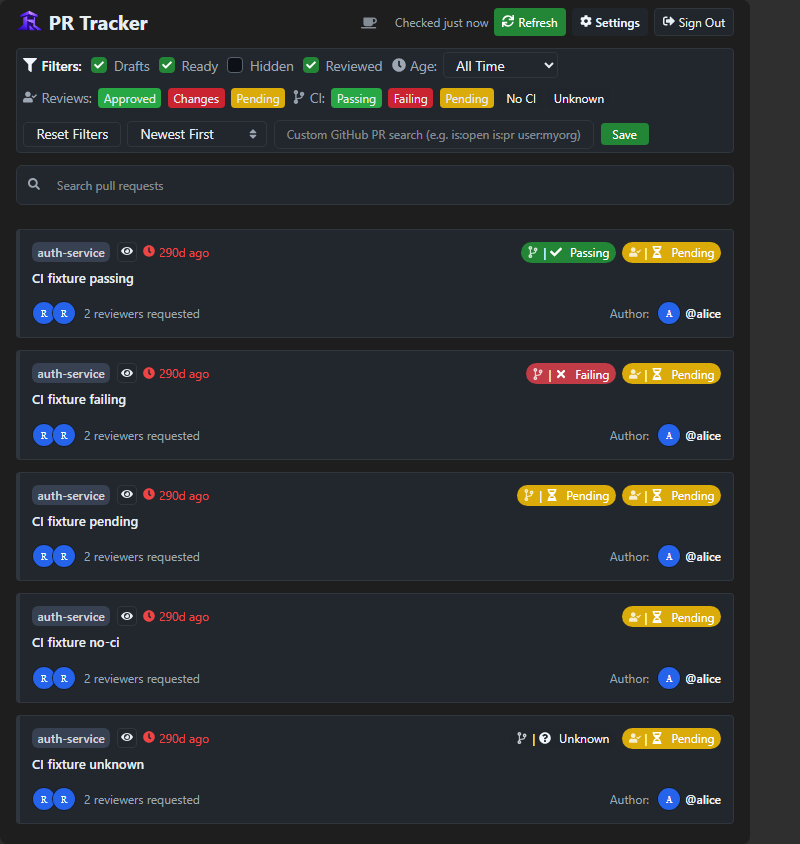
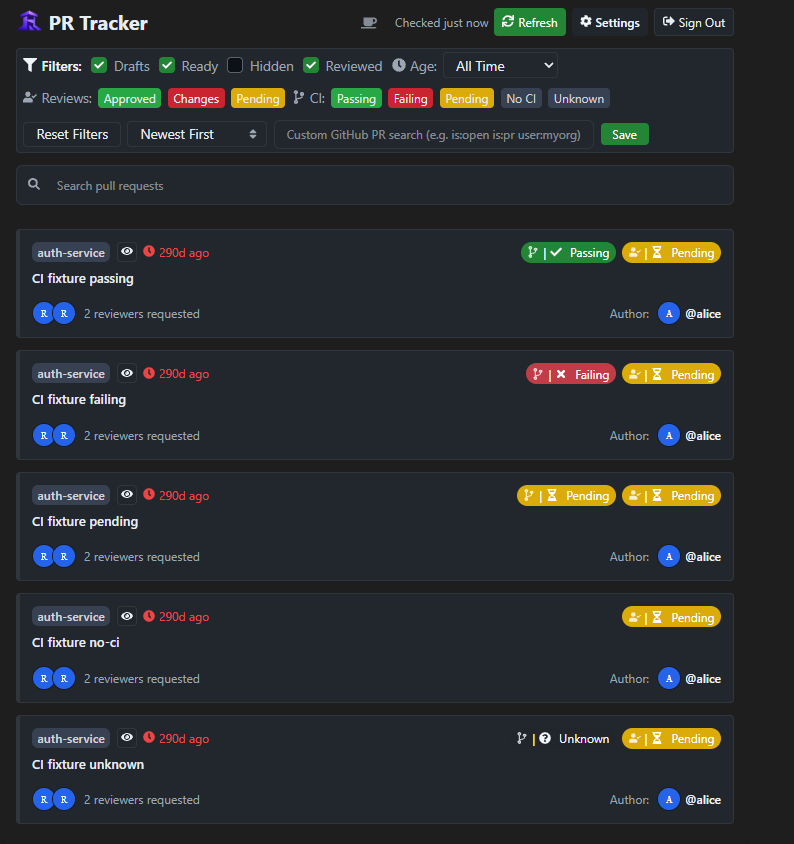
Style neutral CI filter options as subtle grey badges

diff --git a/tests/e2e/ci-status.e2e.test.ts b/tests/e2e/ci-status.e2e.test.ts
@@ -156,6 +156,119 @@ describe('five CI states', () => {
         }
     );
 
+    it.each(['light', 'dark'] as const)(
+        'keeps neutral filter pills compact and keyboard accessible in %s',
+        async (theme) => {
+            page = await openSeededPopup(github, { data: appData(prs), theme });
+            const inspect = () =>
+                page.$$eval(
+                    '.filter-bar-container [data-ci-status]',
+                    (elements) =>
+                        elements.map((el) => {
+                            const css = getComputedStyle(el);
+                            return {
+                                status: el.getAttribute('data-ci-status'),
+                                background: css.backgroundColor,
+                                geometry: {
+                                    height: el.getBoundingClientRect().height,
+                                    padding: css.padding,
+                                    radius: css.borderRadius,
+                                },
+                            };
+                        })
+                );
+            const selected = await inspect();
+            const barHeight = await page.$eval(
+                '.filter-bar-container',
+                (el) => el.getBoundingClientRect().height
+            );
+            expect(selected.slice(0, 3).map((item) => item.background)).toEqual(
+                ['rgb(40, 167, 69)', 'rgb(203, 36, 49)', 'rgb(219, 171, 9)']
+            );
+            for (const status of ['no-ci', 'unknown']) {
+                const badge = `.filter-bar-container [data-ci-status="${status}"]`;
+                const input = `label:has([data-ci-status="${status}"]) input`;
+                const pill = selected.find((item) => item.status === status)!;
+                expect(pill.background).toBe(
+                    theme === 'light' ? 'rgb(229, 231, 235)' : 'rgb(55, 65, 81)'
+                );
+                expect(pill.geometry).toEqual(selected[0]!.geometry);
+                await page.focus(input);
+                await page.keyboard.press('Tab');
+                await page.keyboard.down('Shift');
+                await page.keyboard.press('Tab');
+                await page.keyboard.up('Shift');
+                expect(
+                    await page.$eval(
+                        input,
+                        (el) => el === document.activeElement
+                    )
+                ).toBe(true);
+                expect(
+                    await page.$eval(badge, (el) => {
+                        const css = getComputedStyle(el);
+                        return {
+                            width: css.outlineWidth,
+                            style: css.outlineStyle,
+                        };
+                    })
+                ).toEqual({ width: '2px', style: 'solid' });
+                await page.keyboard.press('Space');
+                await page.waitForSelector(`${badge}[data-selected="false"]`);
+                await vi.waitFor(async () =>
+                    expect(
+                        (
+                            await readAppData(page)
+                        ).preferences?.filters?.ciStatus.includes(
+                            status as CIStatus
+                        )
+                    ).toBe(false)
+                );
+            }
+            await toggle(page, 'passing');
+            const unselected = await inspect();
+            for (const status of ['no-ci', 'unknown']) {
+                const pill = unselected.find((item) => item.status === status)!;
+                expect(pill.background).toBe('rgba(0, 0, 0, 0)');
+                expect(pill.background).not.toBe(
+                    selected.find((item) => item.status === status)!.background
+                );
+                expect(pill.geometry).toEqual(unselected[0]!.geometry);
+            }
+            await toggle(page, 'passing');
+            await page.hover('label:has([data-ci-status="no-ci"])');
+            expect(
+                await page.$eval(
+                    '.filter-bar-container [data-ci-status="no-ci"]',
+                    (el) => getComputedStyle(el).boxShadow
+                )
+            ).not.toBe('none');
+            await page.mouse.move(0, 0);
+            await page.evaluate(() =>
+                (document.activeElement as HTMLElement)?.blur()
+            );
+            expect(await cards(page)).toEqual([
+                'CI fixture passing',
+                'CI fixture failing',
+                'CI fixture pending',
+            ]);
+            expect(
+                await page.$('.pr-card-accent [data-ci-status="no-ci"]')
+            ).toBeNull();
+            const layout = await page.$eval('.filter-bar-container', (el) => ({
+                height: el.getBoundingClientRect().height,
+                overflow: el.scrollWidth > el.clientWidth,
+            }));
+            // Outline badges add only their existing 1px borders, with no extra row.
+            expect(layout.height).toBeLessThanOrEqual(barHeight + 2);
+            expect(layout.overflow).toBe(false);
+            await page.screenshot({
+                path: `screenshots/ci-filters-unselected-${theme}.png`,
+                fullPage: true,
+            });
+        }
+    );
+
     it.each([true, false])(
         'migrates encrypted legacy preferences (all=%s) without losing other preferences',
         async (all) => {

diff --git a/src/theme.css b/src/theme.css
@@ -322,3 +322,28 @@ a:hover {
     background: var(--secondary);
     color: var(--secondary-foreground);
 }
+
+/* Neutral CI filter pills use the same compact geometry as the coloured pills. */
+.screen-prlist
+    .filter-bar-container
+    :is([data-ci-status='no-ci'], [data-ci-status='unknown']):not(
+        [data-selected='false']
+    ) {
+    background: var(--popup-repo);
+    color: var(--popup-repo-foreground);
+}
+
+.screen-prlist
+    .filter-bar-container
+    label:hover
+    > :is([data-ci-status='no-ci'], [data-ci-status='unknown']) {
+    box-shadow: inset 0 0 0 1px var(--popup-subtle);
+}
+
+.screen-prlist
+    .filter-bar-container
+    input:focus-visible
+    + :is([data-ci-status='no-ci'], [data-ci-status='unknown']) {
+    outline: 2px solid var(--ring);
+    outline-offset: 2px;
+}
